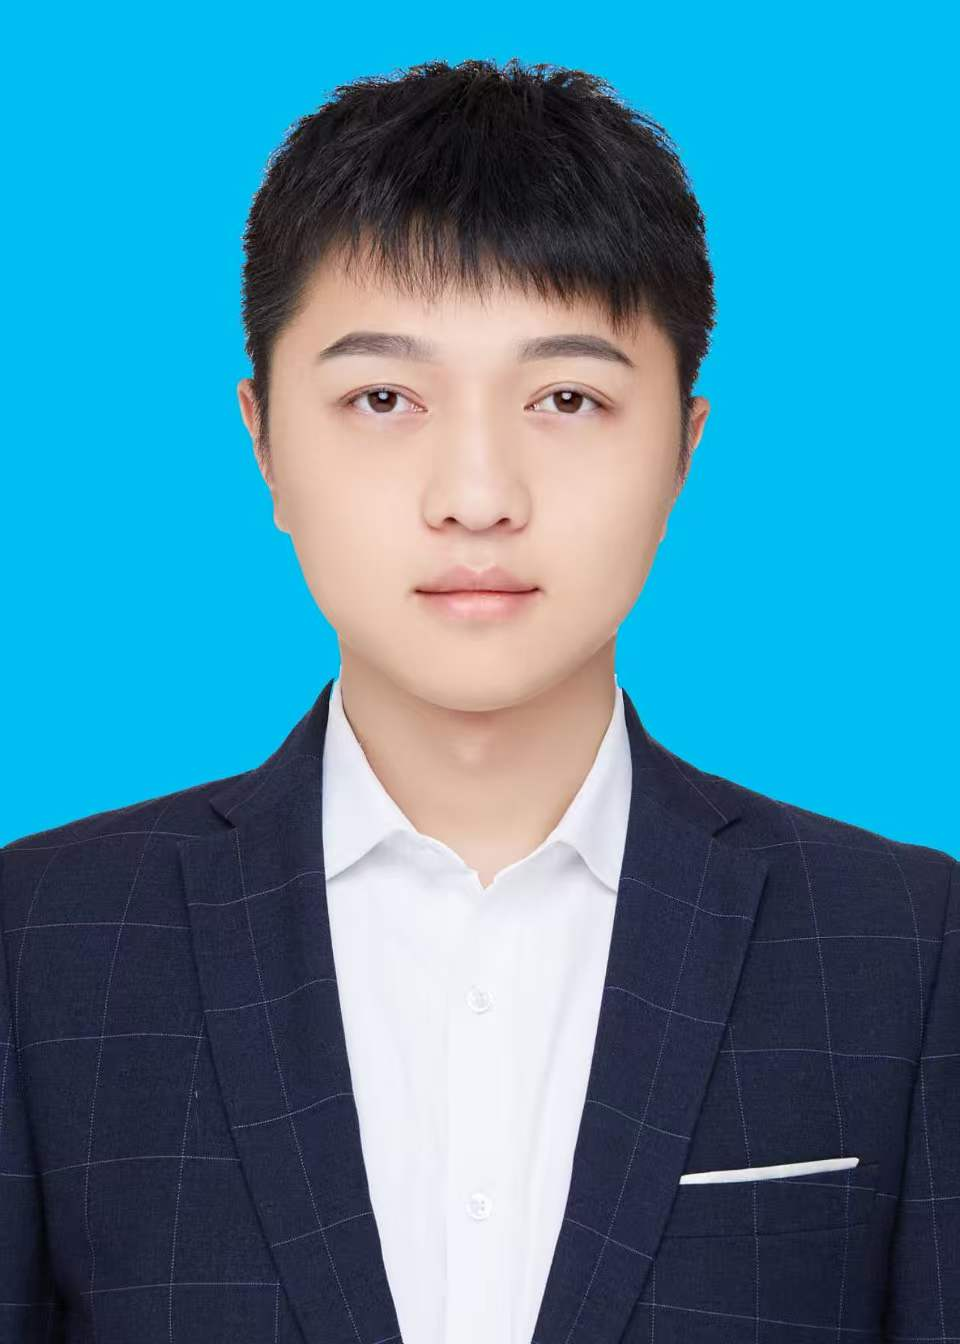
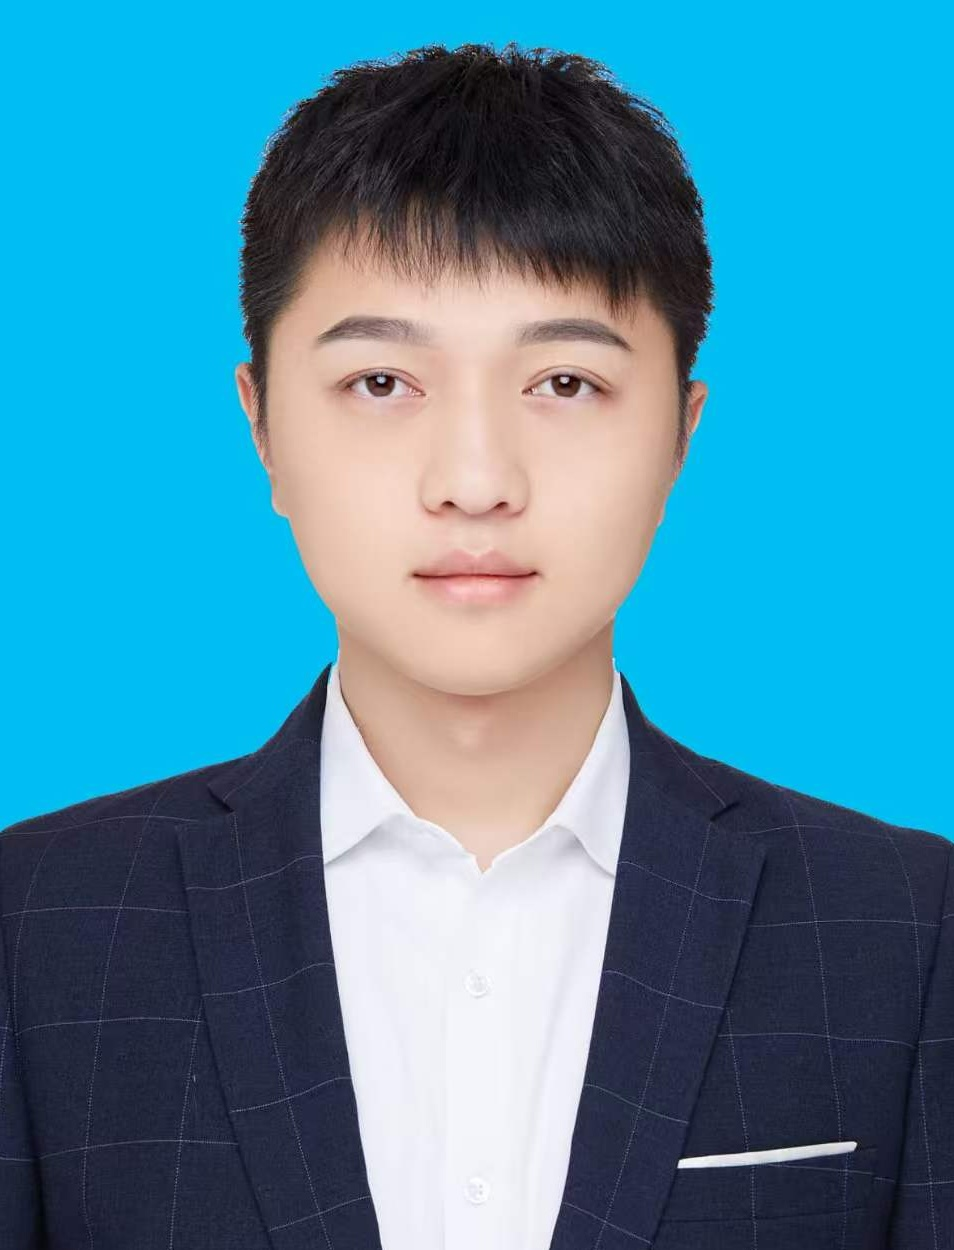
update

diff --git a/_pages/profiles.md b/_pages/profiles.md
@@ -2,7 +2,7 @@
 layout: profiles
 permalink: /people/
 title: People
-nav: false
+nav: true
 nav_order: 7
 
 profiles:
@@ -12,13 +12,13 @@ profiles:
     image_circular: false
 
   - align: left
-    image: luoxi.jpg
-    content: luoxi.md
+    image: yuqiao.jpg
+    content: yuqiao.md
     image_circular: false
 
   - align: left
-    image: yuqiao.jpg
-    content: yuqiao.md
+    image: luoxi.jpg
+    content: luoxi.md
     image_circular: false
 
   ## Past Members

diff --git a/_pages/yuqiao.md b/_pages/yuqiao.md
@@ -1,4 +1,4 @@
 Yuqiao Meng <br />
 Ph.D. student, Computer Science, Binghamton University <br />
 M.S. in Computer Science, Binghamton University <br />
-B.S. in Chongqing University
+B.S. in Computer Science, Chongqing University

diff --git a/_pages/dropdown.md b/_pages/dropdown.md
@@ -1,7 +1,7 @@
 ---
 layout: page
 title: People
-nav: true
+nav: false
 nav_order: 8
 dropdown: true
 children:
